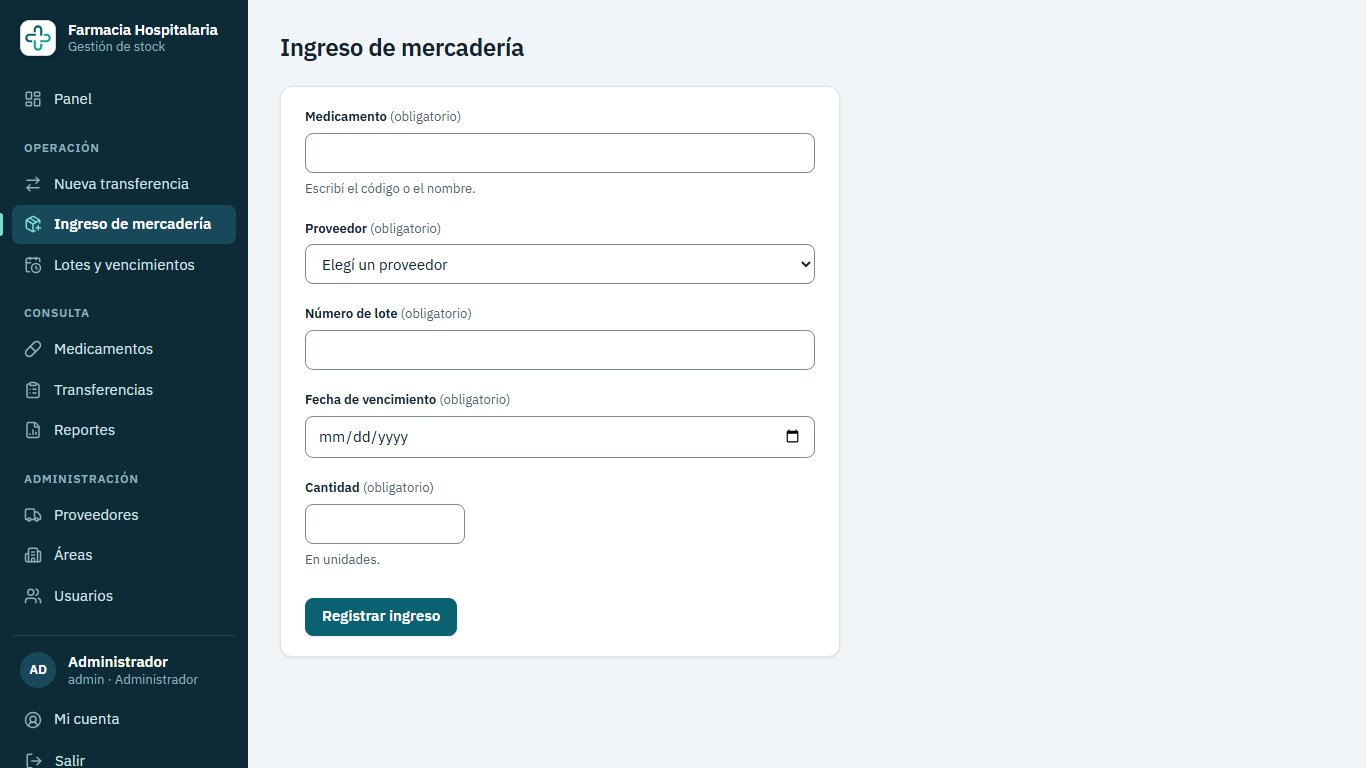
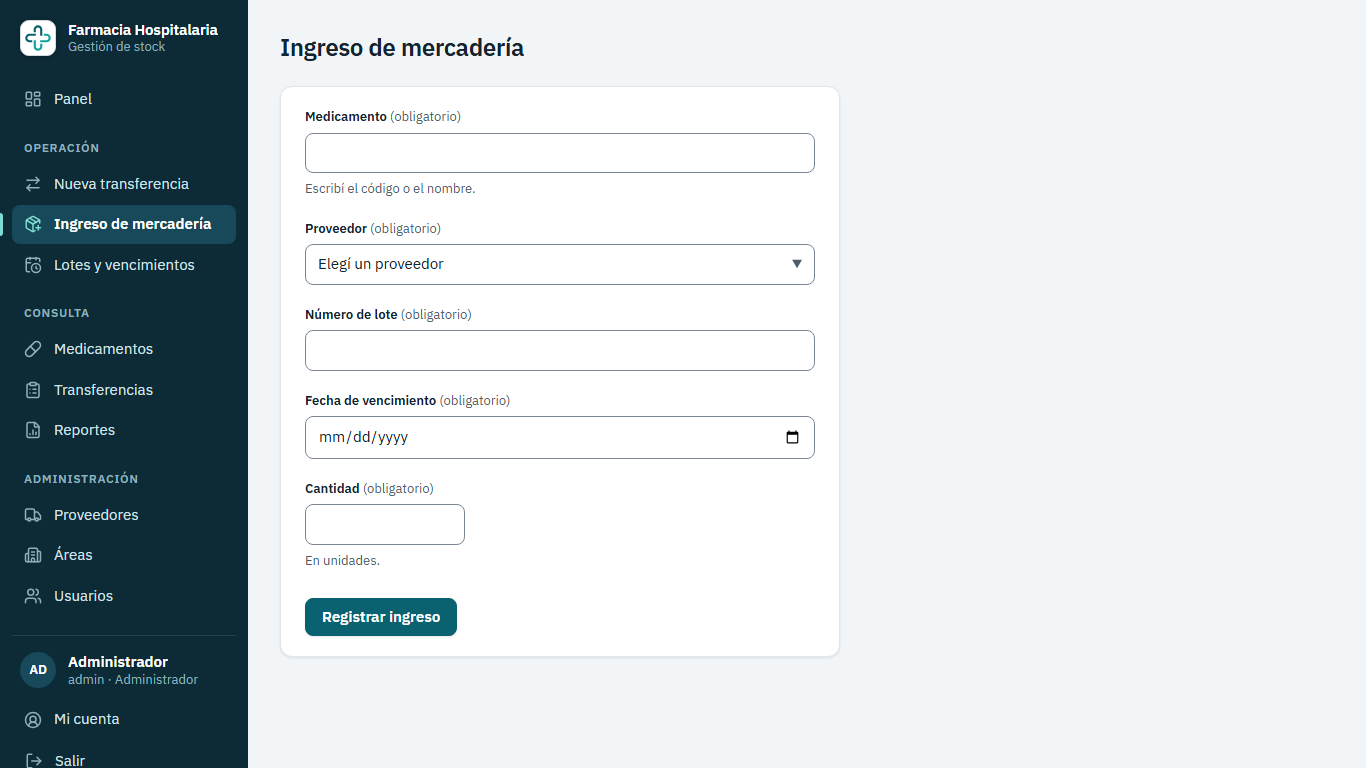
feat(frontend): listas desplegables con el estilo de la app y animación de salida
- Con appearance: base-select la lista de opciones usa el mismo borde,
  sombra y resaltado que el buscador de medicamentos, con la marca de la
  opción elegida al final y la flecha que gira al abrir.
- Abre como la lista del buscador y al cerrar se desvanece más rápido;
  display y overlay discretos la mantienen visible mientras sale.
- Donde base-select no existe, queda la lista nativa.

Claude-Session: https://claude.ai/code/session_01Af3dAEgCrFg5di9XwVVa1G

diff --git a/frontend/src/styles/componentes.css b/frontend/src/styles/componentes.css
@@ -587,6 +587,67 @@ textarea.control {
   padding-left: calc(var(--esp-3) + 24px);
 }
 
+/* ---------- Listas desplegables ---------- */
+
+/* Con base-select el navegador deja dibujar la lista de opciones (la nativa usa el gris del
+   sistema y no se parece al resto). Donde todavía no existe, queda la lista nativa. */
+@supports (appearance: base-select) {
+  select.control,
+  select.control::picker(select) {
+    appearance: base-select;
+  }
+
+  select.control {
+    display: flex;
+    align-items: center;
+    gap: var(--esp-2);
+    cursor: pointer;
+  }
+
+  select.control::picker-icon {
+    color: var(--color-texto-suave);
+    transition: rotate var(--duracion) var(--curva-salida);
+  }
+
+  select.control:open::picker-icon {
+    rotate: 180deg;
+  }
+
+  /* Igual que la lista del buscador de medicamentos. */
+  select.control::picker(select) {
+    margin-block: 4px;
+    padding: var(--esp-1);
+    border: 1px solid var(--color-borde);
+    border-radius: var(--radio);
+    background: var(--color-superficie);
+    box-shadow: var(--sombra);
+  }
+
+  select.control option {
+    gap: var(--esp-2);
+    padding: var(--esp-2) var(--esp-3);
+    border-radius: 6px;
+    cursor: pointer;
+  }
+
+  select.control option:hover,
+  select.control option:focus-visible {
+    outline: none;
+    background: var(--color-primario-suave);
+  }
+
+  select.control option:checked {
+    font-weight: 600;
+    color: var(--color-primario);
+  }
+
+  /* La marca de la opción elegida va al final, como en la mayoría de los menús. */
+  select.control option::checkmark {
+    order: 1;
+    margin-left: auto;
+  }
+}
+
 /* ---------- Combobox ---------- */
 
 .combobox {

diff --git a/frontend/src/styles/animaciones.css b/frontend/src/styles/animaciones.css
@@ -166,6 +166,40 @@
   }
 }
 
+/* ---------- Listas desplegables (select) ---------- */
+
+/* Abre igual que la del buscador y al cerrar se desvanece más rápido: la salida no debe
+   demorar lo que se eligió. display y overlay discretos la mantienen visible mientras sale. */
+@supports (appearance: base-select) {
+  select.control::picker(select) {
+    transform-origin: top center;
+    opacity: 0;
+    transform: translateY(calc(-4px * var(--movimiento))) scale(calc(1 - 0.02 * var(--movimiento)));
+    transition:
+      opacity var(--duracion-corta) ease-in,
+      transform var(--duracion-corta) ease-in,
+      display var(--duracion-corta) allow-discrete,
+      overlay var(--duracion-corta) allow-discrete;
+  }
+
+  select.control:open::picker(select) {
+    opacity: 1;
+    transform: none;
+    transition:
+      opacity var(--duracion-corta) var(--curva-salida),
+      transform var(--duracion) var(--curva-salida),
+      display var(--duracion) allow-discrete,
+      overlay var(--duracion) allow-discrete;
+  }
+
+  @starting-style {
+    select.control:open::picker(select) {
+      opacity: 0;
+      transform: translateY(calc(-4px * var(--movimiento))) scale(calc(1 - 0.02 * var(--movimiento)));
+    }
+  }
+}
+
 /* ---------- Nueva transferencia ---------- */
 
 /* La fila agregada entra sola, así se ve dónde cayó el medicamento recién elegido. */
